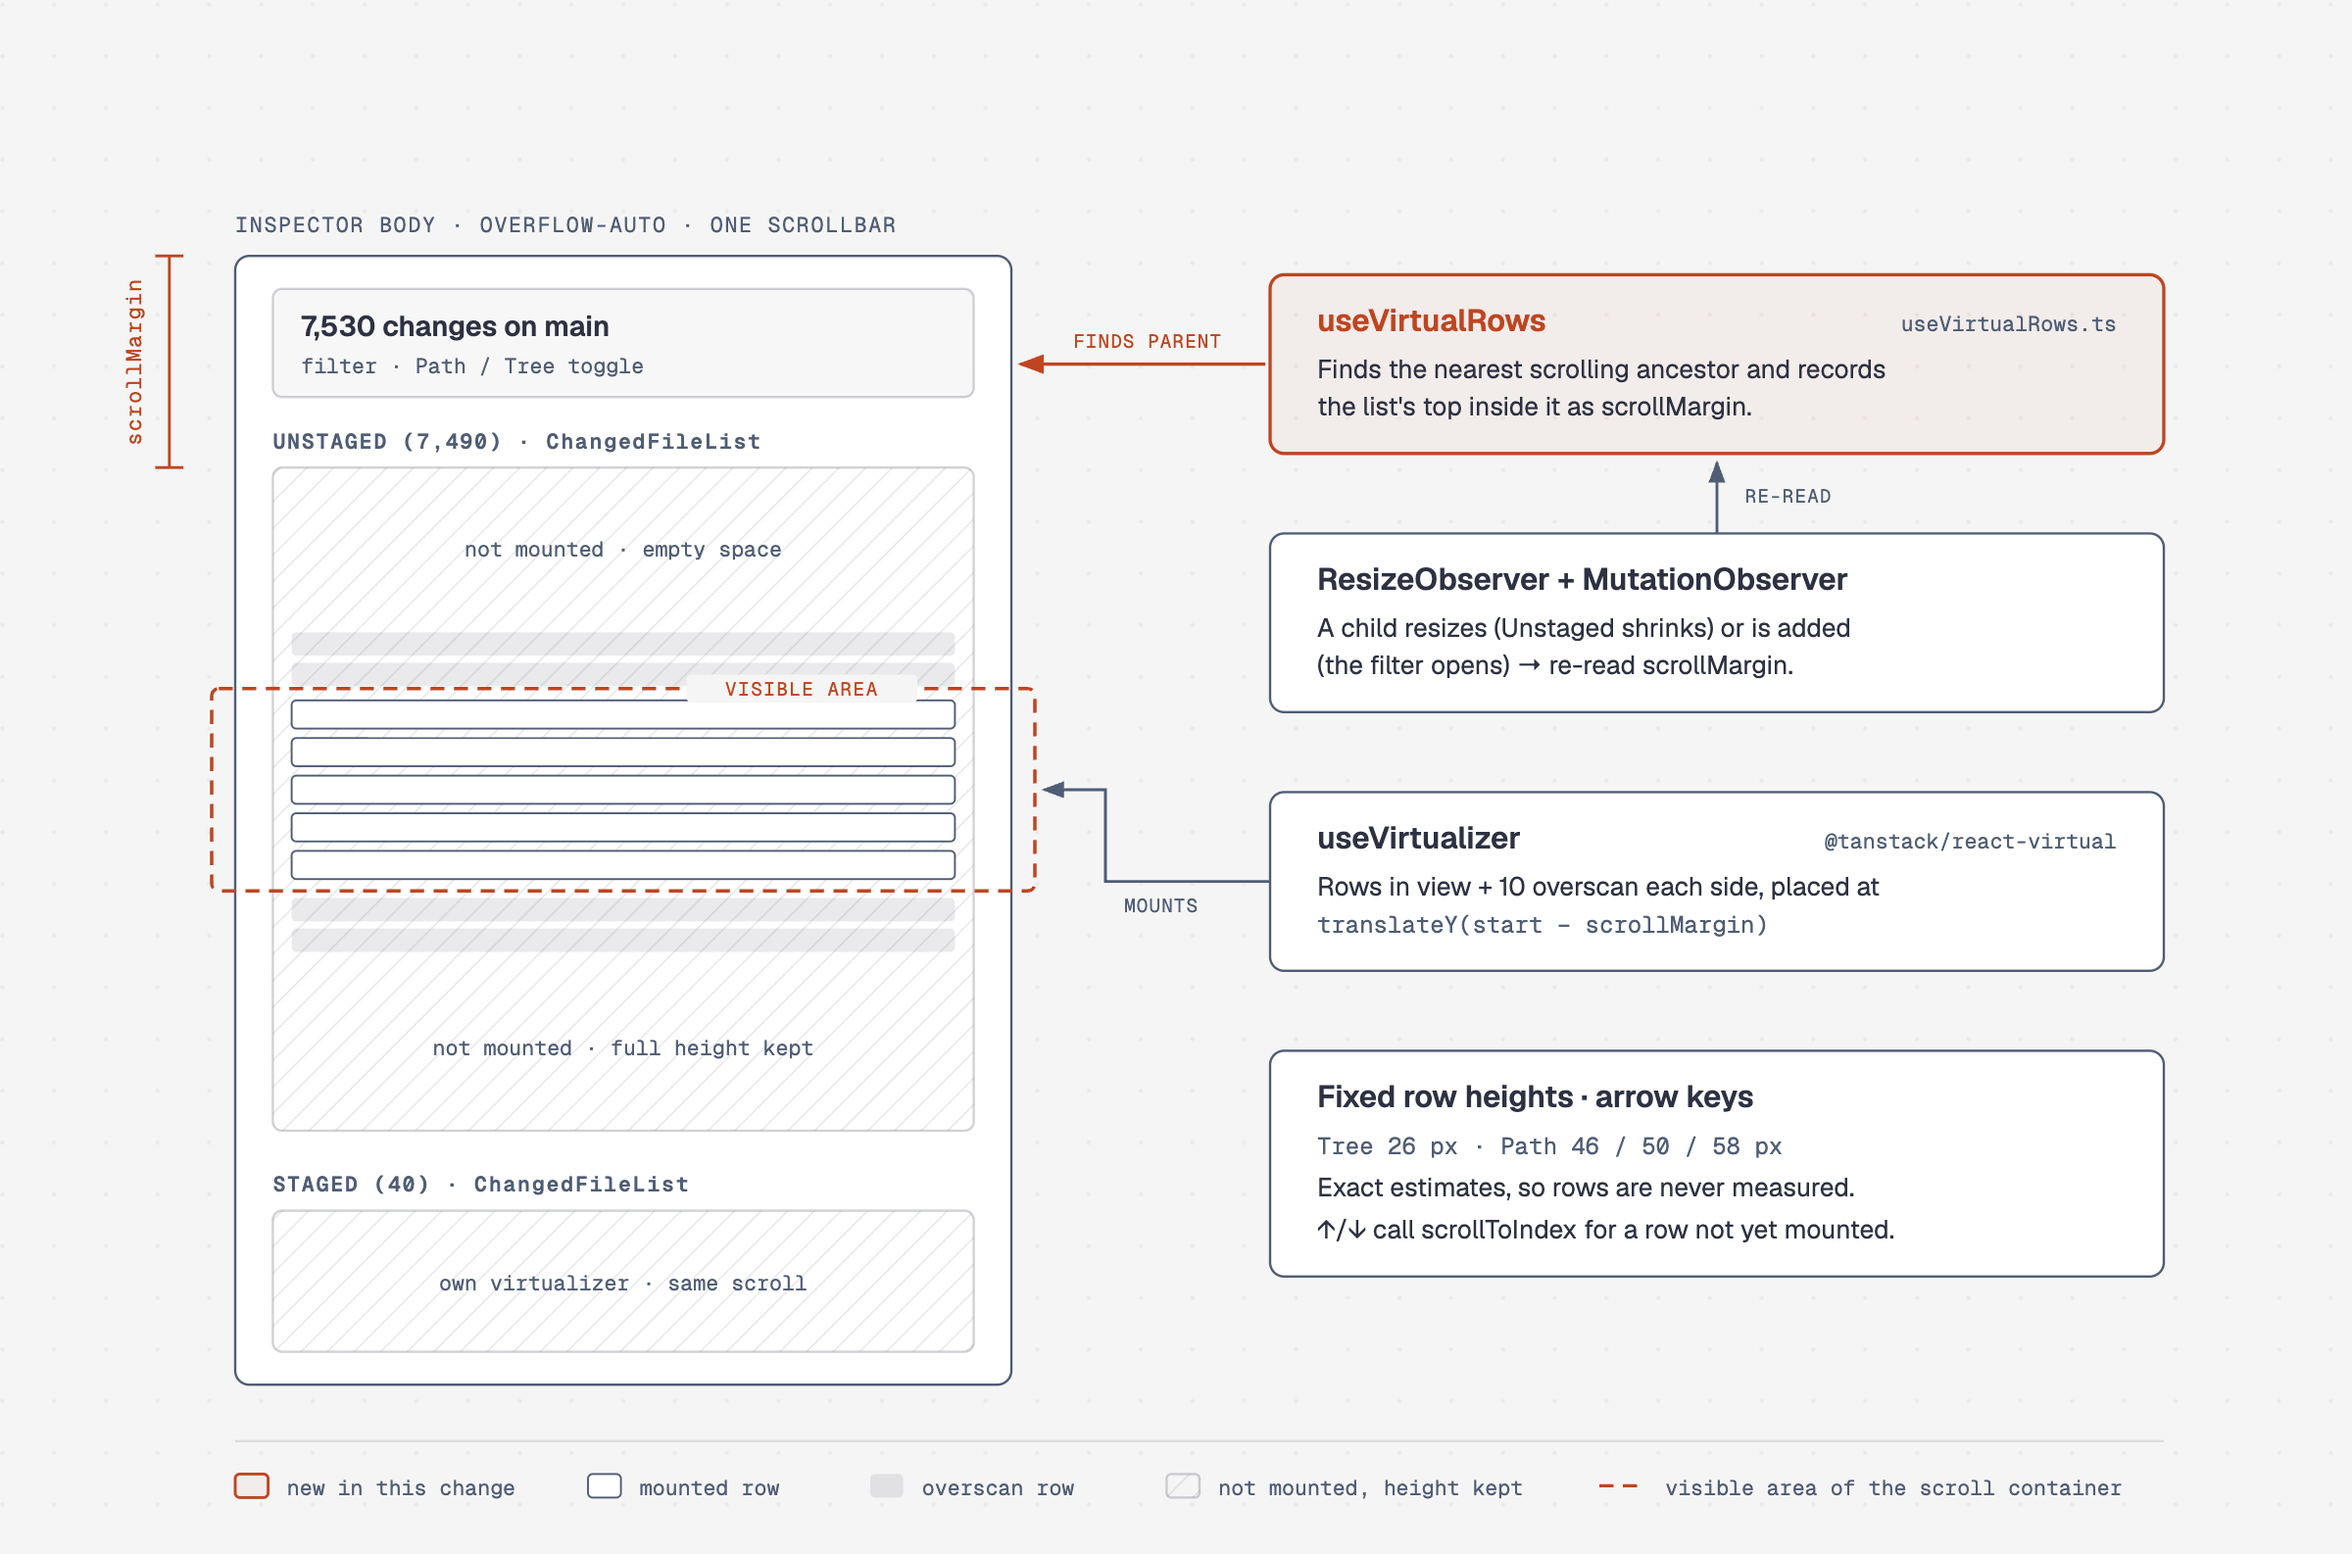
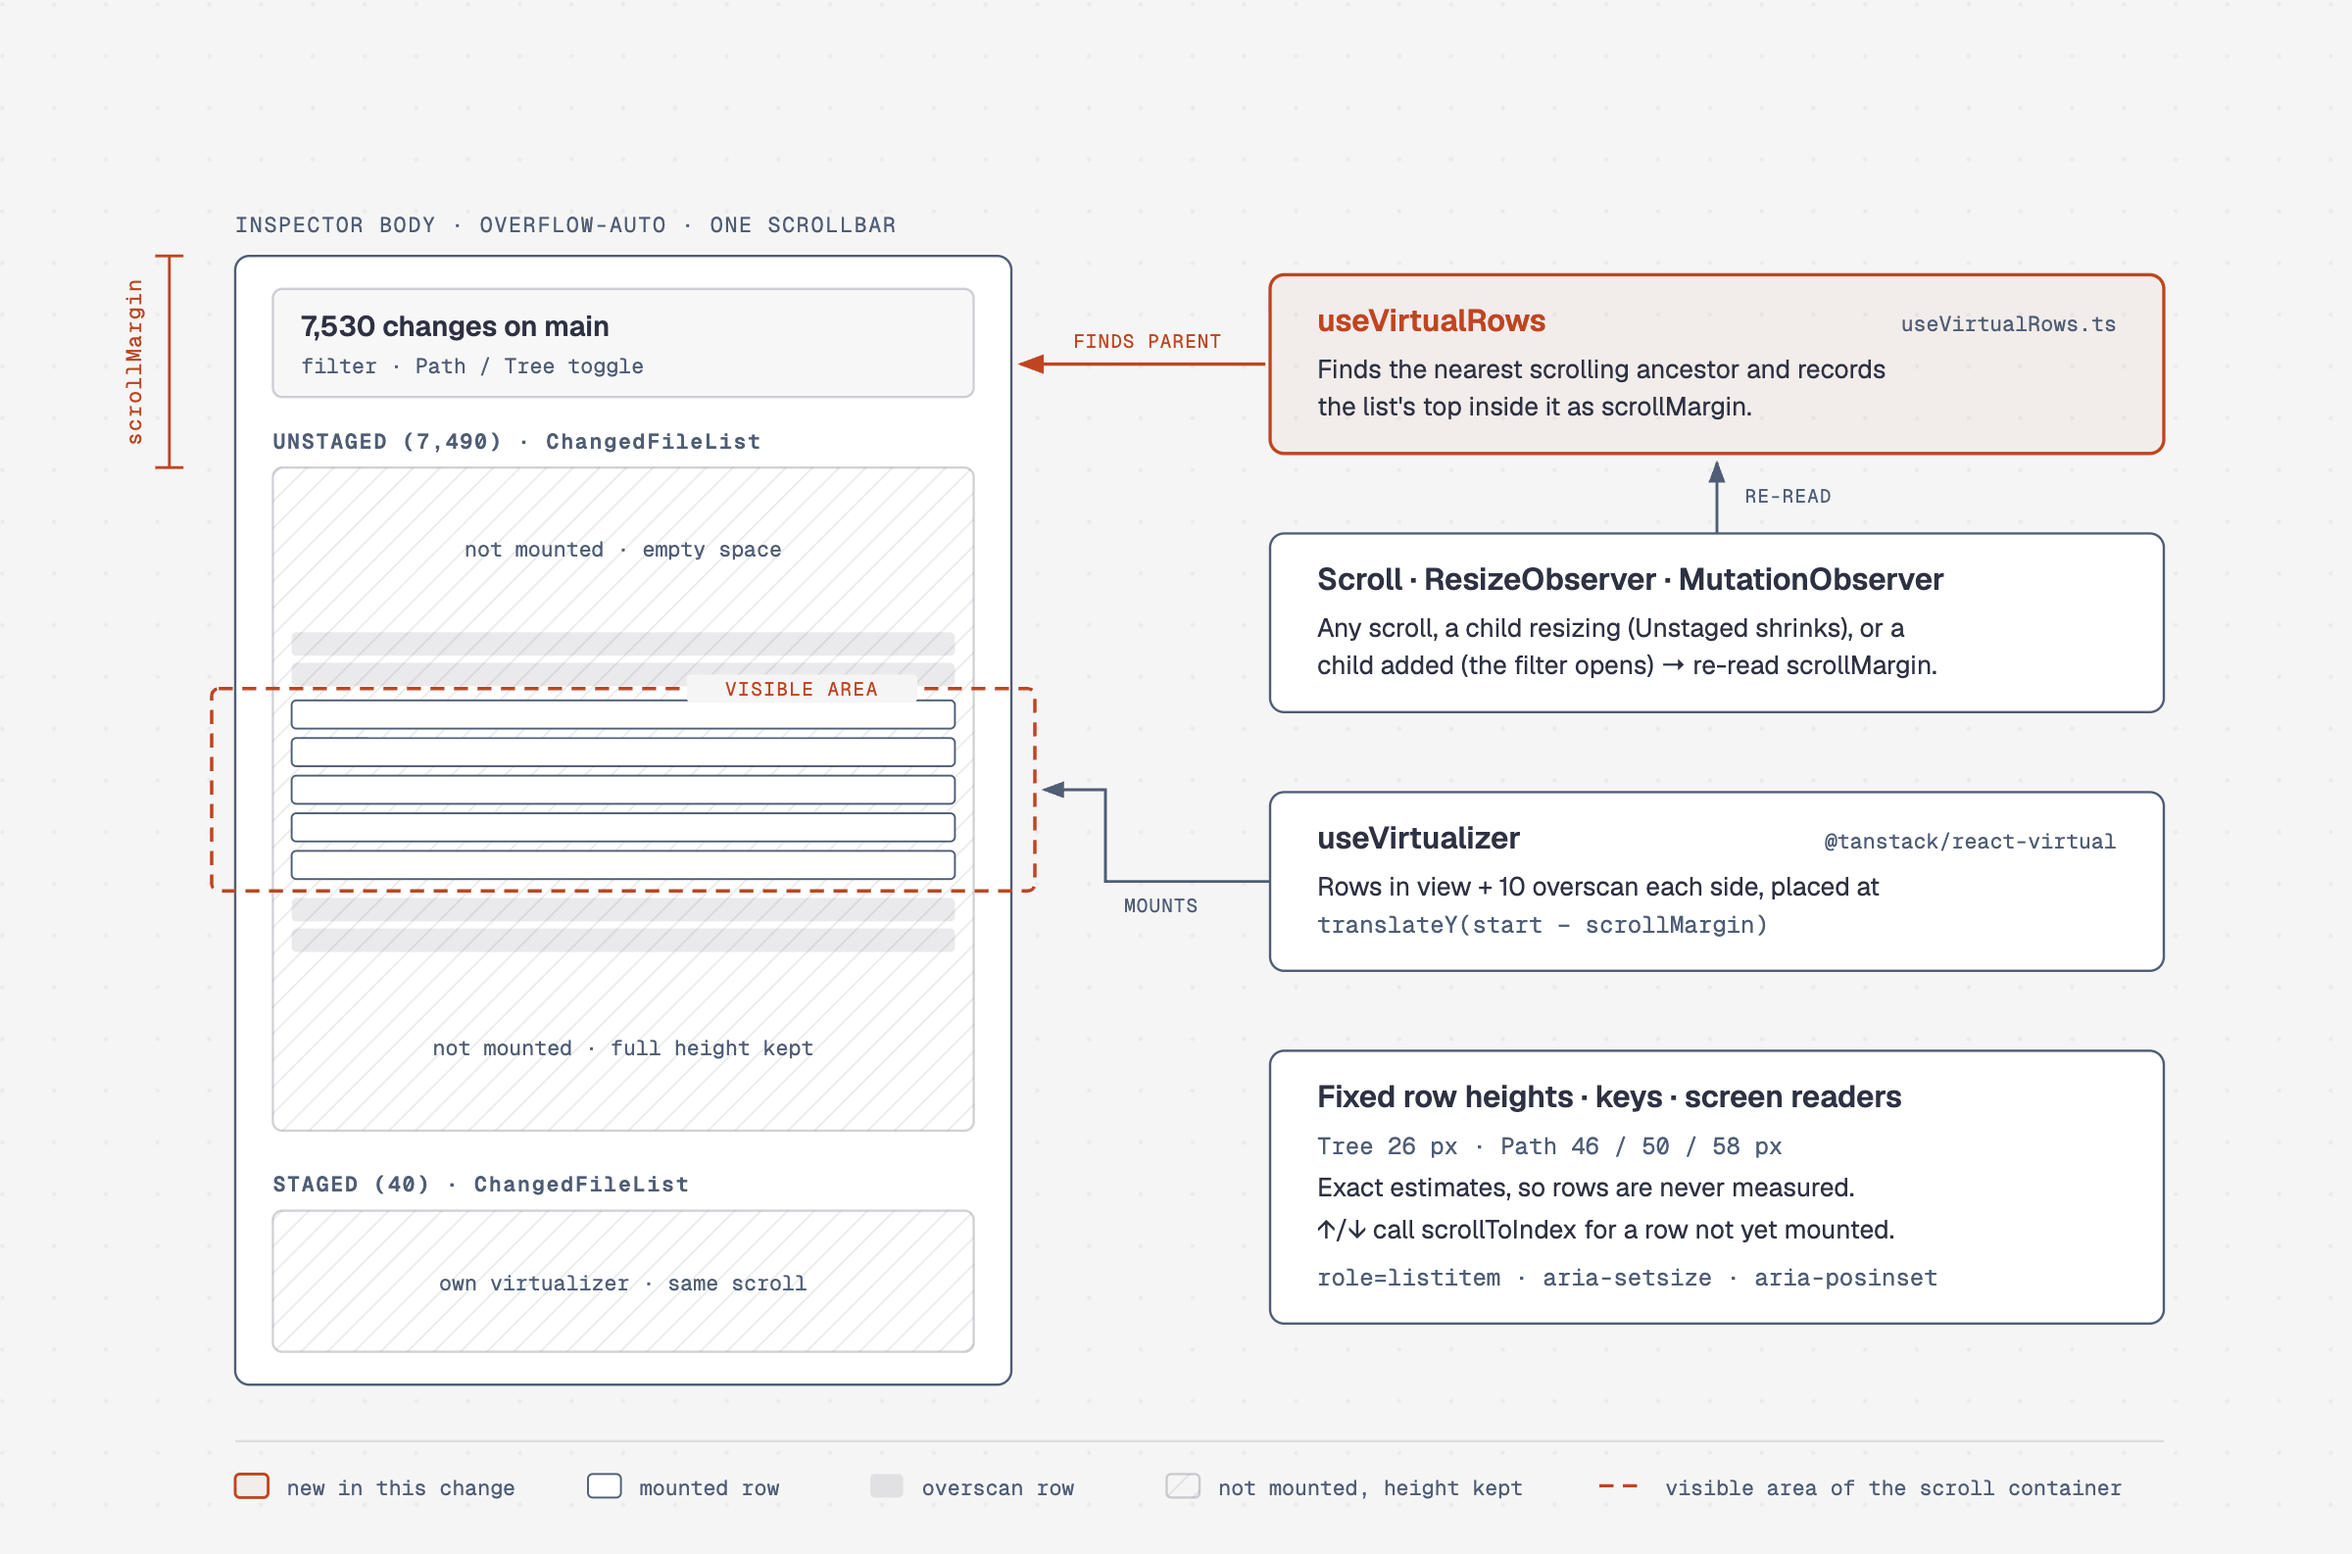
docs(changes): Bring the diagram and design up to the review fixes
The scroll-window diagram, design.md and tasks.md now say that scrollMargin is also re-read on every scroll, that the size and key callbacks are memoized, and that mounted rows carry role=listitem with aria-setsize / aria-posinset.

Changed region(s): [[0.5625, 0.3707, 0.8125, 0.4325], [0.5625, 0.8033, 0.8438, 0.8342], [0.6875, 0.6797, 0.8125, 0.7106]]

diff --git a/docs/diagrams/changed-file-list/scroll-window.html b/docs/diagrams/changed-file-list/scroll-window.html
@@ -61,7 +61,7 @@
     <div class="diagram-container">
       <svg viewBox="0 0 1000 660" xmlns="http://www.w3.org/2000/svg" role="img" aria-labelledby="scroll-window-title scroll-window-desc">
         <title id="scroll-window-title">Only the rows near the visible area are mounted</title>
-        <desc id="scroll-window-desc">The Working Changes inspector has one scroll container holding the header, the Unstaged list and the Staged list, so they scroll as one page. Each ChangedFileList calls useVirtualRows, which finds that scroll container and records the list's offset inside it as scrollMargin. A ResizeObserver on the container and its children, and a MutationObserver for added children such as the filter field, re-read that offset. useVirtualizer then mounts only the rows in the visible area plus ten overscan rows on each side, positioned absolutely; the rest of the list is empty space of the full height, so the scrollbar and the section after it stay in place. Row heights are fixed CSS (26 px in Tree view, 46, 50 or 58 px in Path view), so rows are not measured. Arrow keys call scrollToIndex, so the next file comes into view even when it was not mounted.</desc>
+        <desc id="scroll-window-desc">The Working Changes inspector has one scroll container holding the header, the Unstaged list and the Staged list, so they scroll as one page. Each ChangedFileList calls useVirtualRows, which finds that scroll container and records the list's offset inside it as scrollMargin. The offset is re-read on every scroll, when a ResizeObserver sees the container or one of its children resize, and when a MutationObserver sees a child added or removed, such as the filter field. useVirtualizer then mounts only the rows in the visible area plus ten overscan rows on each side, positioned absolutely; the rest of the list is empty space of the full height, so the scrollbar and the section after it stay in place. Row heights are fixed CSS (26 px in Tree view, 46, 50 or 58 px in Path view), so rows are not measured. Arrow keys call scrollToIndex, so the next file comes into view even when it was not mounted. Each mounted row is a listitem with aria-setsize and aria-posinset, so screen readers hear the full count and position.</desc>
         <defs>
           <pattern id="dots" width="22" height="22" patternUnits="userSpaceOnUse">
             <circle cx="1" cy="1" r="0.9" fill="rgba(45,49,66,0.10)"/>
@@ -129,9 +129,9 @@
 
         <!-- B: observers -->
         <rect x="540" y="226" width="380" height="76" rx="6" fill="#ffffff" stroke="#4f5d75" stroke-width="1"/>
-        <text x="560" y="250" fill="#2d3142" font-size="13" font-weight="600" font-family="'Geist', sans-serif">ResizeObserver + MutationObserver</text>
-        <text x="560" y="270" fill="#2d3142" font-size="11" font-family="'Geist', sans-serif">A child resizes (Unstaged shrinks) or is added</text>
-        <text x="560" y="286" fill="#2d3142" font-size="11" font-family="'Geist', sans-serif">(the filter opens) → re-read scrollMargin.</text>
+        <text x="560" y="250" fill="#2d3142" font-size="13" font-weight="600" font-family="'Geist', sans-serif">Scroll · ResizeObserver · MutationObserver</text>
+        <text x="560" y="270" fill="#2d3142" font-size="11" font-family="'Geist', sans-serif">Any scroll, a child resizing (Unstaged shrinks), or a</text>
+        <text x="560" y="286" fill="#2d3142" font-size="11" font-family="'Geist', sans-serif">child added (the filter opens) → re-read scrollMargin.</text>
 
         <!-- C: virtualizer -->
         <rect x="540" y="336" width="380" height="76" rx="6" fill="#ffffff" stroke="#4f5d75" stroke-width="1"/>
@@ -141,11 +141,12 @@
         <text x="560" y="396" fill="#4f5d75" font-size="10" font-family="'Geist Mono', monospace">translateY(start − scrollMargin)</text>
 
         <!-- D: row heights + keys -->
-        <rect x="540" y="446" width="380" height="96" rx="6" fill="#ffffff" stroke="#4f5d75" stroke-width="1"/>
-        <text x="560" y="470" fill="#2d3142" font-size="13" font-weight="600" font-family="'Geist', sans-serif">Fixed row heights · arrow keys</text>
+        <rect x="540" y="446" width="380" height="116" rx="6" fill="#ffffff" stroke="#4f5d75" stroke-width="1"/>
+        <text x="560" y="470" fill="#2d3142" font-size="13" font-weight="600" font-family="'Geist', sans-serif">Fixed row heights · keys · screen readers</text>
         <text x="560" y="490" fill="#4f5d75" font-size="10" font-family="'Geist Mono', monospace">Tree 26 px · Path 46 / 50 / 58 px</text>
         <text x="560" y="508" fill="#2d3142" font-size="11" font-family="'Geist', sans-serif">Exact estimates, so rows are never measured.</text>
         <text x="560" y="526" fill="#2d3142" font-size="11" font-family="'Geist', sans-serif">↑/↓ call scrollToIndex for a row not yet mounted.</text>
+        <text x="560" y="546" fill="#4f5d75" font-size="10" font-family="'Geist Mono', monospace">role=listitem · aria-setsize · aria-posinset</text>
 
         <!-- ARROWS -->
         <line x1="538" y1="154" x2="434" y2="154" stroke="#bf4520" stroke-width="1.4" marker-end="url(#arrow-accent)"/>

diff --git a/openspec/changes/virtualize-changed-file-list/tasks.md b/openspec/changes/virtualize-changed-file-list/tasks.md
@@ -10,10 +10,12 @@
 
 ## 3. Virtualize the list
 
-- [x] 3.1 Add `file-list/useVirtualRows.ts`: find the nearest scrollable ancestor of the list ref, track the list's offset in it as `scrollMargin` (re-read by a `ResizeObserver` on the container and its children, and a `MutationObserver` for added children), and wrap `useVirtualizer` with an exact `estimateSize` per row kind (dir 26 px; file 44/48/56 px plus the 2 px Path gap), `getItemKey` = row key, overscan 10, and an `initialRect` for the unmeasured first render
+- [x] 3.1 Add `file-list/useVirtualRows.ts`: find the nearest scrollable ancestor of the list ref, track the list's offset in it as `scrollMargin` (re-read on every virtualizer change including scroll, by a `ResizeObserver` on the container and its children, and by a `MutationObserver` for added or removed children), with memoized `estimateSize` / `getItemKey`, and wrap `useVirtualizer` with an exact `estimateSize` per row kind (dir 26 px; file 44/48/56 px plus the 2 px Path gap), `getItemKey` = row key, overscan 10, and an `initialRect` for the unmeasured first render
 - [x] 3.2 Path view: render only `getVirtualItems()` as absolutely positioned rows at `start - scrollMargin`, with `height: size` (the 2 px gap included), inside a container of height `getTotalSize()`; drop `space-y-0.5`
 - [x] 3.3 Tree view: the same over the `buildRows` output, so `DirRow` and file rows share one virtual sequence; collapse, `forceExpanded`, and the filter highlight behave as before
 - [x] 3.4 Keyboard ↑/↓: map the next path to its row index and call `virtualizer.scrollToIndex(index, { align: "auto" })` instead of `querySelector(...).scrollIntoView()`
+
+- [x] 3.5 Screen readers: `role="list"` on the list, `role="listitem"` with `aria-setsize` / `aria-posinset` on each mounted row
 
 ## 4. Linear folder guards
 

diff --git a/openspec/changes/virtualize-changed-file-list/design.md b/openspec/changes/virtualize-changed-file-list/design.md
@@ -66,8 +66,22 @@ to five call sites for no behaviour gain.
 opening, the Unstaged section growing or shrinking, a notice appearing. The
 list therefore re-reads its offset when a `ResizeObserver` sees the scroll
 container or any of its direct children resize, and when a `MutationObserver`
-sees a child added or removed (the filter field opening). If it does not, the
-second section's window drifts.
+sees a child added or removed (the filter field opening). It also re-reads the
+offset on every virtualizer change, scrolling included, which catches a shift
+above the list inside one child whose height stays the same. If it does not,
+the second section's window drifts. On a child-list change the `ResizeObserver`
+disconnects and re-observes the current children, so removed ones are not held.
+
+The `estimateSize` and `getItemKey` callbacks are memoized on the rows: the
+virtualizer rebuilds every row's measurement when they change, so new closures
+on each render would redo that work for all 7,500 rows.
+
+### Screen readers see the full list size
+
+Off-screen rows are not in the DOM, so the list has `role="list"` and each
+mounted row has `role="listitem"` with `aria-setsize` (all rows) and
+`aria-posinset` (its position). A screen reader announces the full count and
+position, not only the ~50 mounted rows.
 
 Rejected: give each section a fixed-height scroll box. That changes the layout
 the user sees (two small scrollbars instead of one page) and breaks the
